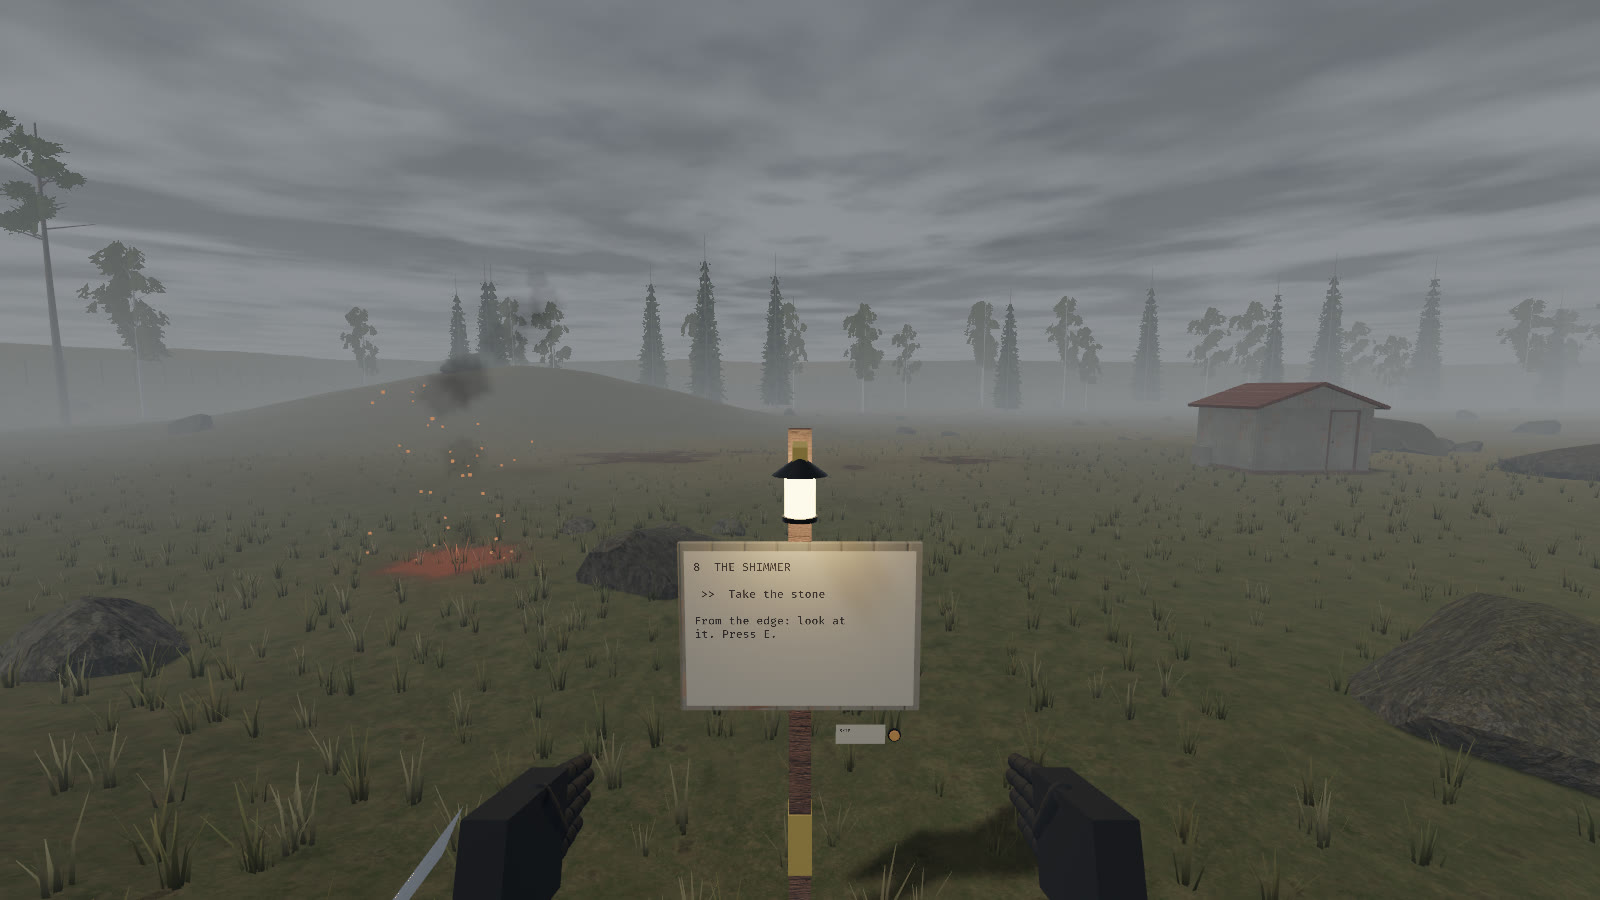
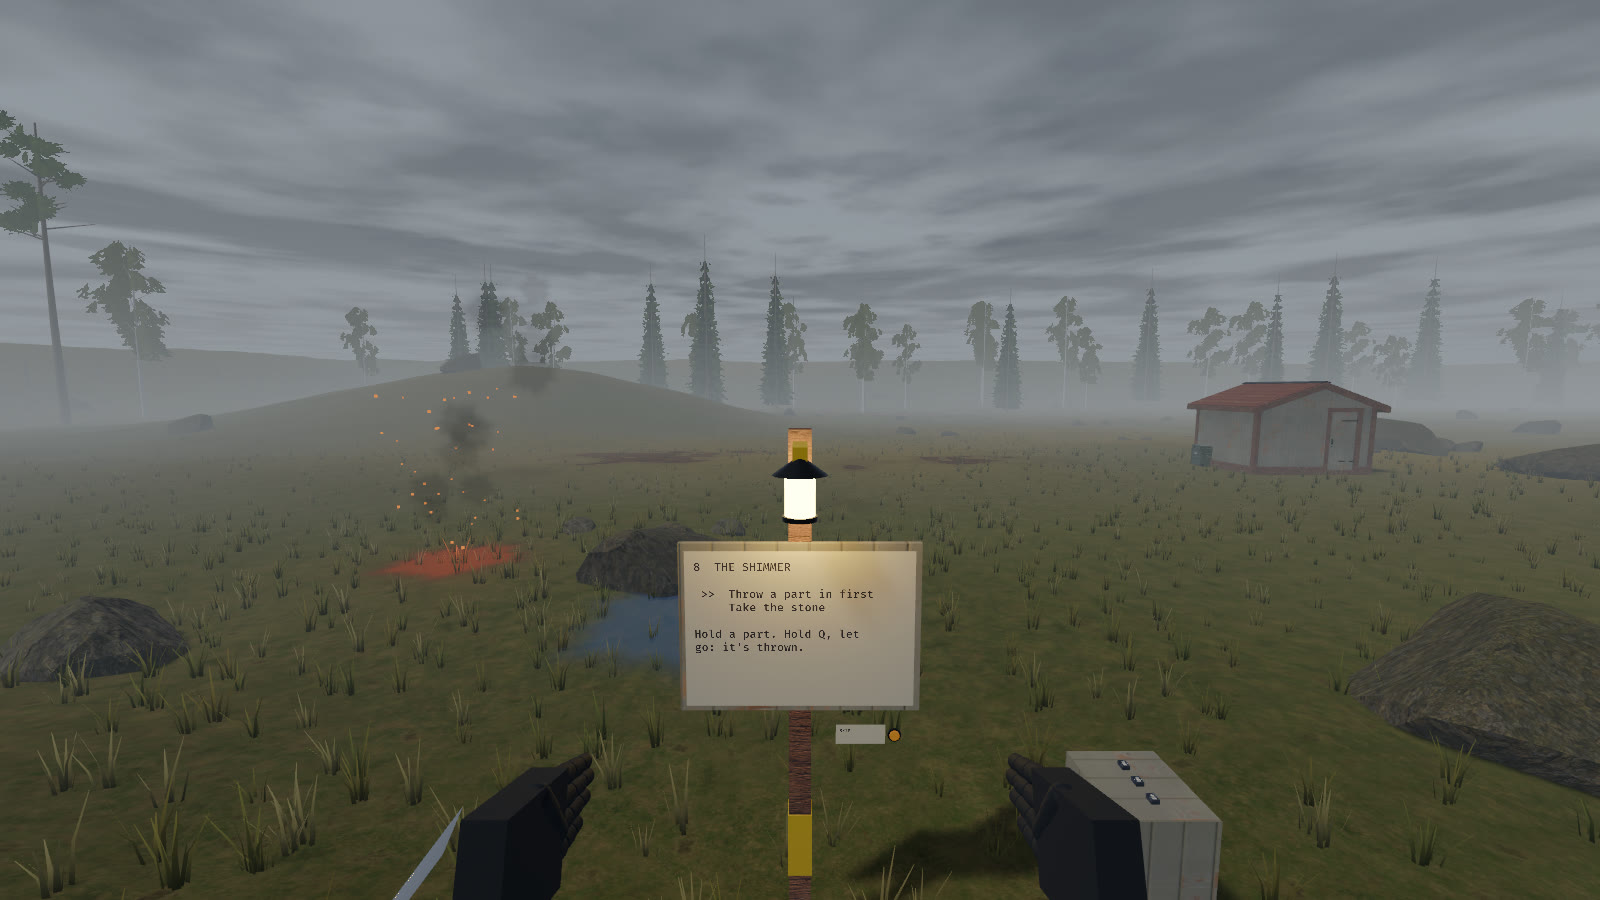
The shimmer: throw a part first, and a stone you can see
- A snare on the way to the burner, nothing in it: you can't tell where
  it ends until something sets it off. The station's first step is to
  throw a part (a crate of them by the post) and see it crackle, from
  outside it: the habit that keeps people alive out there. Tested by a
  real throw through the hand path (grip, swing, open), and a dropped
  part doesn't count.
- The burner's stone lay in the grass at its heart, all but invisible;
  it sits on a burnt stump now.

Claude-Session: https://claude.ai/code/session_01NmXBds2EZM9Y4sFRZVTXQt

diff --git a/src/onboarding/mod.rs b/src/onboarding/mod.rs
@@ -70,6 +70,7 @@ pub enum Goal {
     Search,
     Wrist,
     Dressing,
+    Probe,
     Artifact,
     Button,
     CallTruck,
@@ -98,6 +99,7 @@ impl Goal {
             Goal::Search => "Take what's inside",
             Goal::Wrist => "Read your wrist",
             Goal::Dressing => "Use a dressing",
+            Goal::Probe => "Throw a part in first",
             Goal::Artifact => "Take the stone",
             Goal::Button => "Push the button",
             Goal::CallTruck => "Call the truck",
@@ -142,6 +144,8 @@ impl Goal {
             (Goal::Wrist, true) => "Hold H to check yourself.",
             (Goal::Dressing, false) => "Hold it. Press A or X.",
             (Goal::Dressing, true) => "Hold it. Press U.",
+            (Goal::Probe, false) => "GRIP a part, swing, open\nyour hand at the shimmer.",
+            (Goal::Probe, true) => "Hold a part. Hold Q, let\ngo: it's thrown.",
             (Goal::Artifact, false) => "Don't step in. Point at\nit, GRIP, flick back.",
             (Goal::Artifact, true) => "From the edge: look at\nit. Press E.",
             (Goal::Button, false) => "Point a finger, TRIGGER\noff. Push the amber cap.",
@@ -239,9 +243,9 @@ pub const STATIONS: &[Station] = &[
         title: "THE SHIMMER",
         at: [4.5, -30.0],
         rot: 90.0,
-        goals: &[Goal::Artifact],
+        goals: &[Goal::Probe, Goal::Artifact],
         where_: "the lamp on the right. Mind the shimmer",
-        tip: "Throw a bolt in first. Carry\nmany stones and the\nmachines feel them too.",
+        tip: "Burners show; snares and\nlifts hide. Many stones\nand the machines know.",
     },
     Station {
         title: "BUTTONS",
@@ -277,6 +281,13 @@ pub fn station_of(goal: Goal) -> usize {
 /// Where the training burner sits (its heart: the stone), and its size.
 pub const SHIMMER_AT: [f32; 2] = [12.0, -36.0];
 pub const SHIMMER_R: f32 = 1.6;
+pub const STUMP_H: f32 = 0.38;
+/// A snare on the way in, nothing in it: you can't see where it ends until
+/// something sets it off. Throw a thing in first.
+pub const SNARE_AT: [f32; 2] = [9.0, -31.5];
+pub const SNARE_R: f32 = 1.8;
+/// The crate of spare parts to throw, by the shimmer's post.
+pub const PARTS_CRATE_AT: [f32; 2] = [4.6, -28.4];
 /// The pen the far-grab box sits in.
 pub const FAR_STAND_AT: [f32; 2] = [-6.5, 79.5];
 /// A crate at chest height in the middle of a fenced pen: plain to see,
@@ -387,6 +398,8 @@ pub enum Prop {
     Crate(Vec3),
     /// The board by the tailgate, on its post.
     BoardPost,
+    /// A burnt stump the burner's stone sits on, out of the grass.
+    Stump,
 }
 
 /// Things put out for a goal.
@@ -401,9 +414,13 @@ pub enum Placed {
 #[derive(Resource, Debug, Clone, Copy)]
 pub struct Doorway(pub Vec3);
 
-/// The training burner.
+/// The training anomalies.
 #[derive(Component)]
 pub struct Shimmer;
+
+/// The one you find with a thrown part.
+#[derive(Component)]
+pub struct Probed;
 
 /// Board sizes: a station's (read from a few steps off), the truck's (from
 /// where you stand in the bed), the list by the tailgate.
@@ -437,6 +454,7 @@ impl Plugin for OnboardingPlugin {
                         watch_world,
                         watch_moves,
                         watch_wrist,
+                        watch_probe,
                         press_cards,
                     ),
                     announce.after(crate::items::usage::UsageSystems),
@@ -802,6 +820,7 @@ fn setup(
     let mut keep_clear: Vec<Vec2> = STATIONS.iter().skip(1).map(|s| Vec2::from(s.at)).collect();
     keep_clear.extend([
         Vec2::from(SHIMMER_AT),
+        Vec2::from(SNARE_AT),
         Vec2::from(FAR_STAND_AT),
         Vec2::from(RANGE_TABLE_AT),
     ]);
@@ -820,6 +839,43 @@ fn setup(
         }
     }
     commands.spawn((
+        Name::new("Training snare"),
+        Shimmer,
+        Probed,
+        Anomaly {
+            kind: extraction_core::anomaly::AnomalyKind::Snare,
+            radius: SNARE_R,
+            charge: 1.0,
+            bloom: None,
+        },
+        Transform::from_translation(ground(&zone, SNARE_AT)),
+        Visibility::default(),
+    ));
+    let size = Vec3::new(0.5, 0.75, 0.45);
+    let at = ground(&zone, PARTS_CRATE_AT);
+    commands.spawn((
+        Name::new("Parts crate"),
+        Prop::Crate(size),
+        Transform::from_translation(at),
+        Visibility::default(),
+        RigidBody::Static,
+        Collider::compound(vec![(
+            Vec3::Y * size.y * 0.5,
+            Quat::IDENTITY,
+            Collider::cuboid(size.x, size.y, size.z),
+        )]),
+        CollisionLayers::new(Layer::World, LayerMask::ALL),
+    ));
+    for k in 0..3 {
+        spawn(
+            &mut commands,
+            "spare_parts",
+            Transform::from_translation(
+                at + Vec3::new(-0.12 + k as f32 * 0.12, size.y + 0.04, 0.0),
+            ),
+        );
+    }
+    commands.spawn((
         Name::new("Training burner"),
         Shimmer,
         Anomaly {
@@ -831,10 +887,24 @@ fn setup(
         Transform::from_translation(heart),
         Visibility::default(),
     ));
+    // On a burnt stump: on the ground the grass hid it.
+    commands.spawn((
+        Name::new("Burnt stump"),
+        Prop::Stump,
+        Transform::from_translation(heart),
+        Visibility::default(),
+        RigidBody::Static,
+        Collider::compound(vec![(
+            Vec3::Y * STUMP_H * 0.5,
+            Quat::IDENTITY,
+            Collider::cylinder(0.17, STUMP_H),
+        )]),
+        CollisionLayers::new(Layer::World, LayerMask::ALL),
+    ));
     if let Some(e) = spawn(
         &mut commands,
         "art_hearth",
-        Transform::from_translation(heart + Vec3::Y * 0.4),
+        Transform::from_translation(heart + Vec3::Y * (STUMP_H + 0.06)),
     ) {
         commands.entity(e).insert(Placed::Stone);
     }
@@ -1117,6 +1187,28 @@ fn watch_wrist(
     };
     if *held > 0.4 {
         complete(&mut ob, Goal::Wrist, &mut out);
+    }
+}
+
+/// The snare on the way in went off with you outside it: something
+/// thrown found it.
+fn watch_probe(
+    mut ob: ResMut<Onboarding>,
+    mut out: MessageWriter<GoalDone>,
+    mut events: MessageReader<crate::anomaly::AnomalyEvent>,
+    snares: Query<(&Anomaly, &GlobalTransform), With<Probed>>,
+    players: Query<&GlobalTransform, With<LocalPlayer>>,
+) {
+    for ev in events.read() {
+        let Ok((a, gt)) = snares.get(ev.anomaly) else {
+            continue;
+        };
+        let clear = players
+            .iter()
+            .all(|p| p.translation().xz().distance(gt.translation().xz()) > a.radius + 0.3);
+        if ev.what == crate::anomaly::AnomalyAct::Discharge && clear {
+            complete(&mut ob, Goal::Probe, &mut out);
+        }
     }
 }
 

diff --git a/src/vr_harness.rs b/src/vr_harness.rs
@@ -1797,6 +1797,47 @@ mod onboarding {
         assert!(done(&vr, Goal::Dressing), "the dressing counted");
     }
 
+    /// The shimmer: a part thrown by hand (grip, swing, open) sets off the
+    /// snare on the way in, from outside it.
+    #[test]
+    fn station_shimmer_throw_a_part_first() {
+        let mut vr = Vr::first_run();
+        vr.step(30);
+        let snare = crate::onboarding::SNARE_AT;
+        let r = crate::onboarding::SNARE_R;
+        // West of it, facing it (+X).
+        let feet = ground(&vr, [snare[0] - r - 1.6, snare[1]]);
+        vr.stand(feet, -std::f32::consts::FRAC_PI_2);
+        vr.step(20);
+        let part = vr.spawn(
+            "spare_parts",
+            Transform::from_translation(feet + Vec3::new(0.3, 1.0, 0.3)),
+        );
+        vr.app
+            .world_mut()
+            .entity_mut(part)
+            .insert(RigidBody::Static);
+        take(&mut vr, Side::Right, part);
+        vr.app
+            .world_mut()
+            .entity_mut(part)
+            .insert(RigidBody::Dynamic);
+        // Back by the shoulder, then a quick swing forward and up; open.
+        let start = feet + Vec3::new(-0.1, 1.5, 0.3);
+        vr.move_hand(Side::Right, start);
+        vr.step(10);
+        for k in 1..=6 {
+            vr.move_hand(
+                Side::Right,
+                start + Vec3::new(0.11, 0.025, -0.01) * k as f32,
+            );
+            vr.step(1);
+        }
+        vr.grip(Side::Right, 0.0);
+        vr.step(120);
+        assert!(done(&vr, Goal::Probe), "the thrown part found the snare");
+    }
+
     /// Station 7: walk into the shimmer and the driver warns you; from its
     /// edge, point and flick the stone out of it.
     #[test]

diff --git a/src/onboarding/bot.rs b/src/onboarding/bot.rs
@@ -427,6 +427,28 @@ impl DirectorWorld<'_, '_> {
                 t.extend(self.go(here, self.station(goal) + Vec2::new(-1.5, 0.0), 1.0));
                 t.push(Use(Side::Right));
             }
+            Goal::Probe => {
+                t.extend(self.free_hands());
+                let crate_at = Vec2::from(super::PARTS_CRATE_AT);
+                if let Some(e) = self.loose("spare_parts", crate_at) {
+                    t.extend(self.go(here, crate_at + Vec2::new(-1.0, 0.0), 0.6));
+                    t.push(Grab {
+                        item: e,
+                        side: Side::Right,
+                    });
+                    let snare = Vec2::from(super::SNARE_AT);
+                    let from = snare + Vec2::new(-(super::SNARE_R + 1.5), 0.5);
+                    t.push(WalkTo {
+                        to: from,
+                        within: 0.5,
+                    });
+                    t.push(Throw {
+                        side: Side::Right,
+                        at: Vec3::new(snare.x, self.zone.ground(snare.x, snare.y) + 0.8, snare.y),
+                    });
+                    t.push(Wait(1.0));
+                }
+            }
             Goal::Artifact => {
                 if let Some((e, at)) = self.placed(Placed::Stone) {
                     t.extend(self.free_hands());

diff --git a/src/onboarding/visuals.rs b/src/onboarding/visuals.rs
@@ -291,6 +291,15 @@ fn dress_props(
                     Transform::from_xyz(0.0, size.y * 0.5, 0.0),
                 );
             }
+            Prop::Stump => {
+                let material = lib.get(Mat::BarkPine, &server, &mut materials);
+                commands.spawn((
+                    Mesh3d(meshes.add(Cylinder::new(0.17, super::STUMP_H))),
+                    MeshMaterial3d(material),
+                    Transform::from_xyz(0.0, super::STUMP_H * 0.5, 0.0),
+                    ChildOf(e),
+                ));
+            }
             Prop::BoardPost => {
                 part(
                     Mat::Timber,

diff --git a/docs/PLAYTEST.md b/docs/PLAYTEST.md
@@ -189,7 +189,7 @@ If any of this fails, stop and send the log: everything else depends on it.
   | 5 | The range | rounds into the empty magazine (box in one hand, magazine in the other, touch them), magazine up into the pistol, rack the slide (other hand's trigger), safety off (**click the thumbstick** of the gun hand), hit a plate, drop the magazine (**A** on the gun hand) |
   | 6 | The house | open the door by its edge; take the dressing off the crate inside |
   | 7 | First aid | raise your left hand and look at the back of it (the **wrist** screen: health, load, the clock, the driver's last words); use a dressing: hold it, press A (or X) |
-  | 8 | The shimmer | a burner beside the track with a stone in it: don't step in (the driver shouts if you get close); far-grab the stone from the edge |
+  | 8 | The shimmer | throw a spare part (crate by the post) at the patch ahead: a hidden snare crackles; then a burner with a stone on a burnt stump at its heart: don't step in (the driver shouts if you get close); far-grab the stone from the edge |
   | 9 | Buttons | push the amber button with a fingertip |
   | 10 | Going home | radio the truck (A or X with the radio in hand); it's there in ten seconds; climb in, pull the cord |
 
